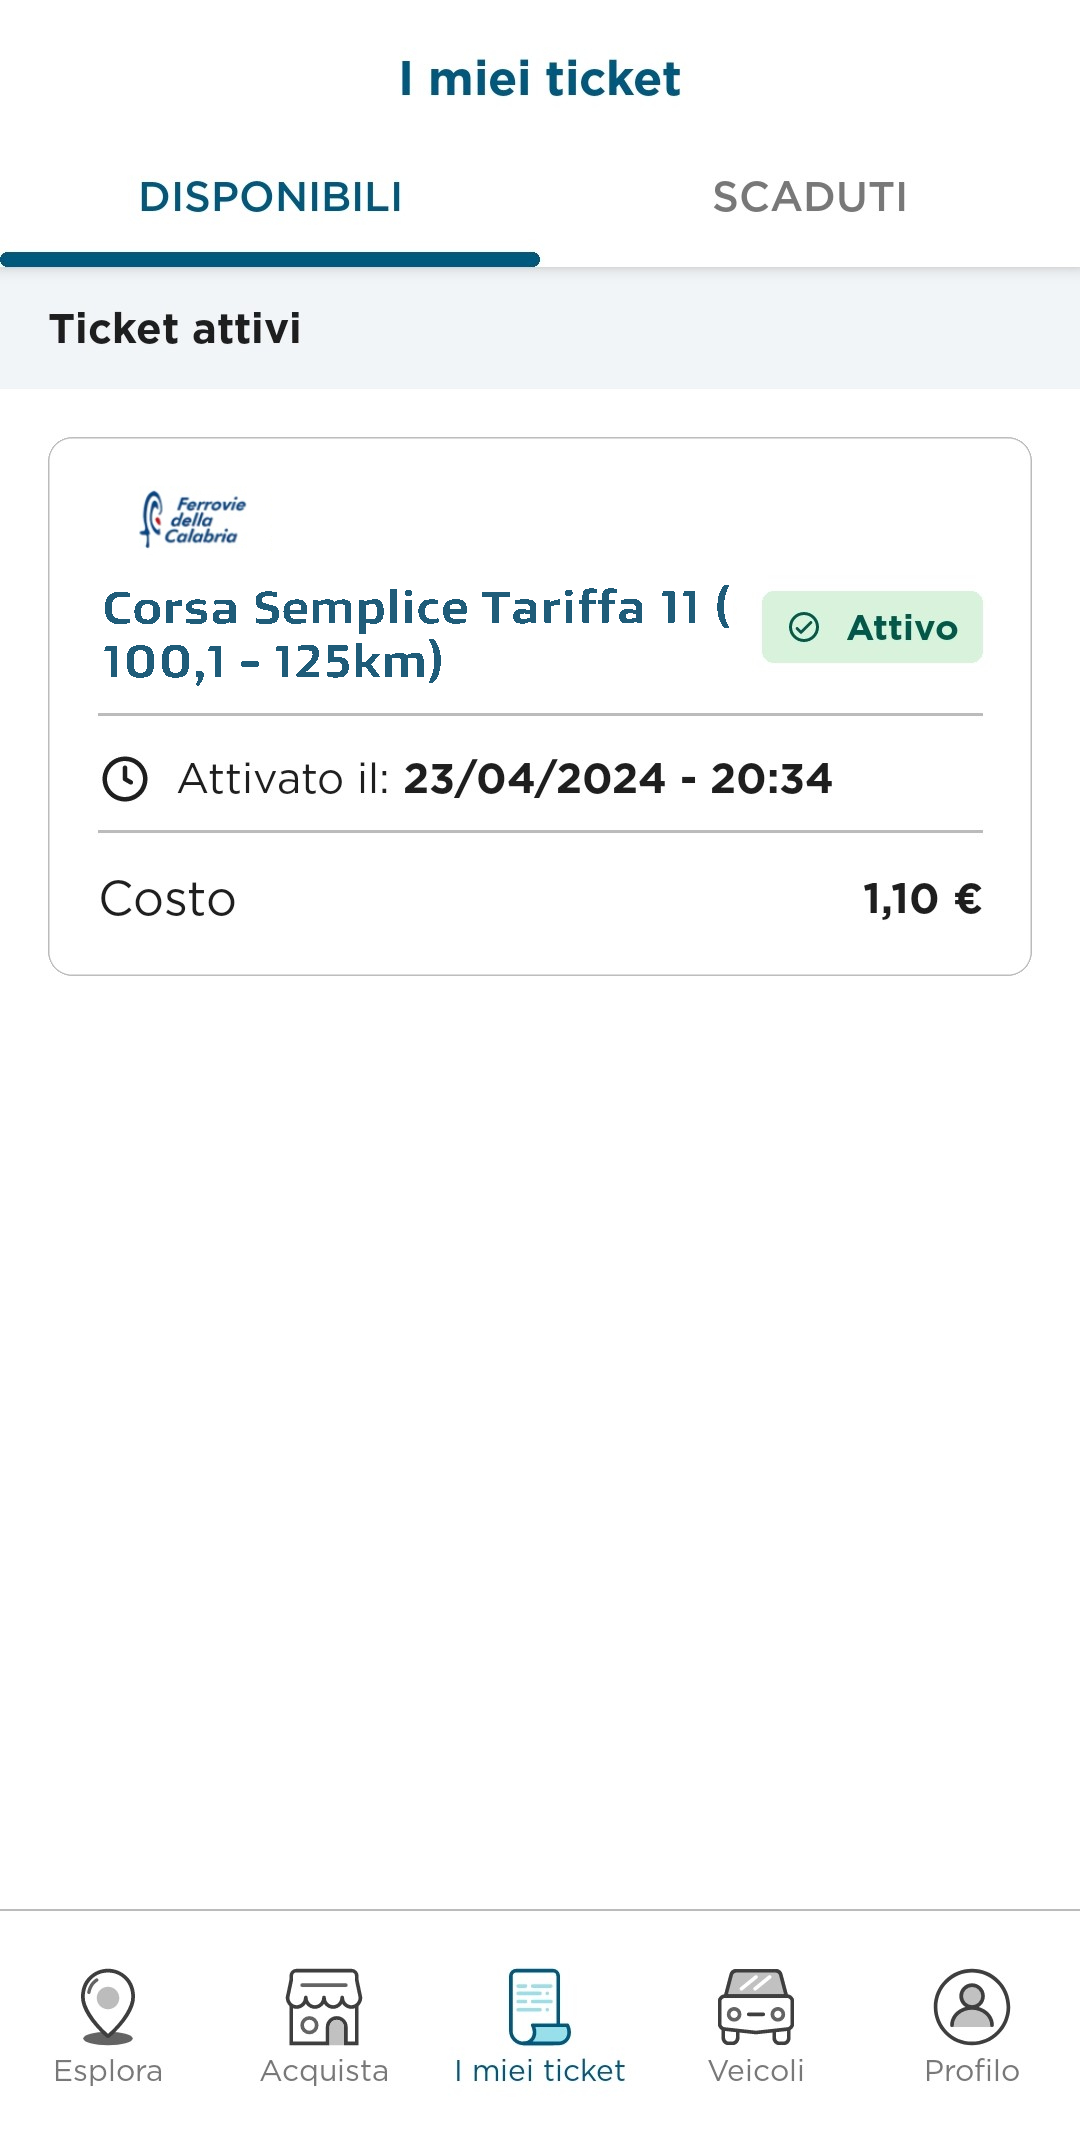
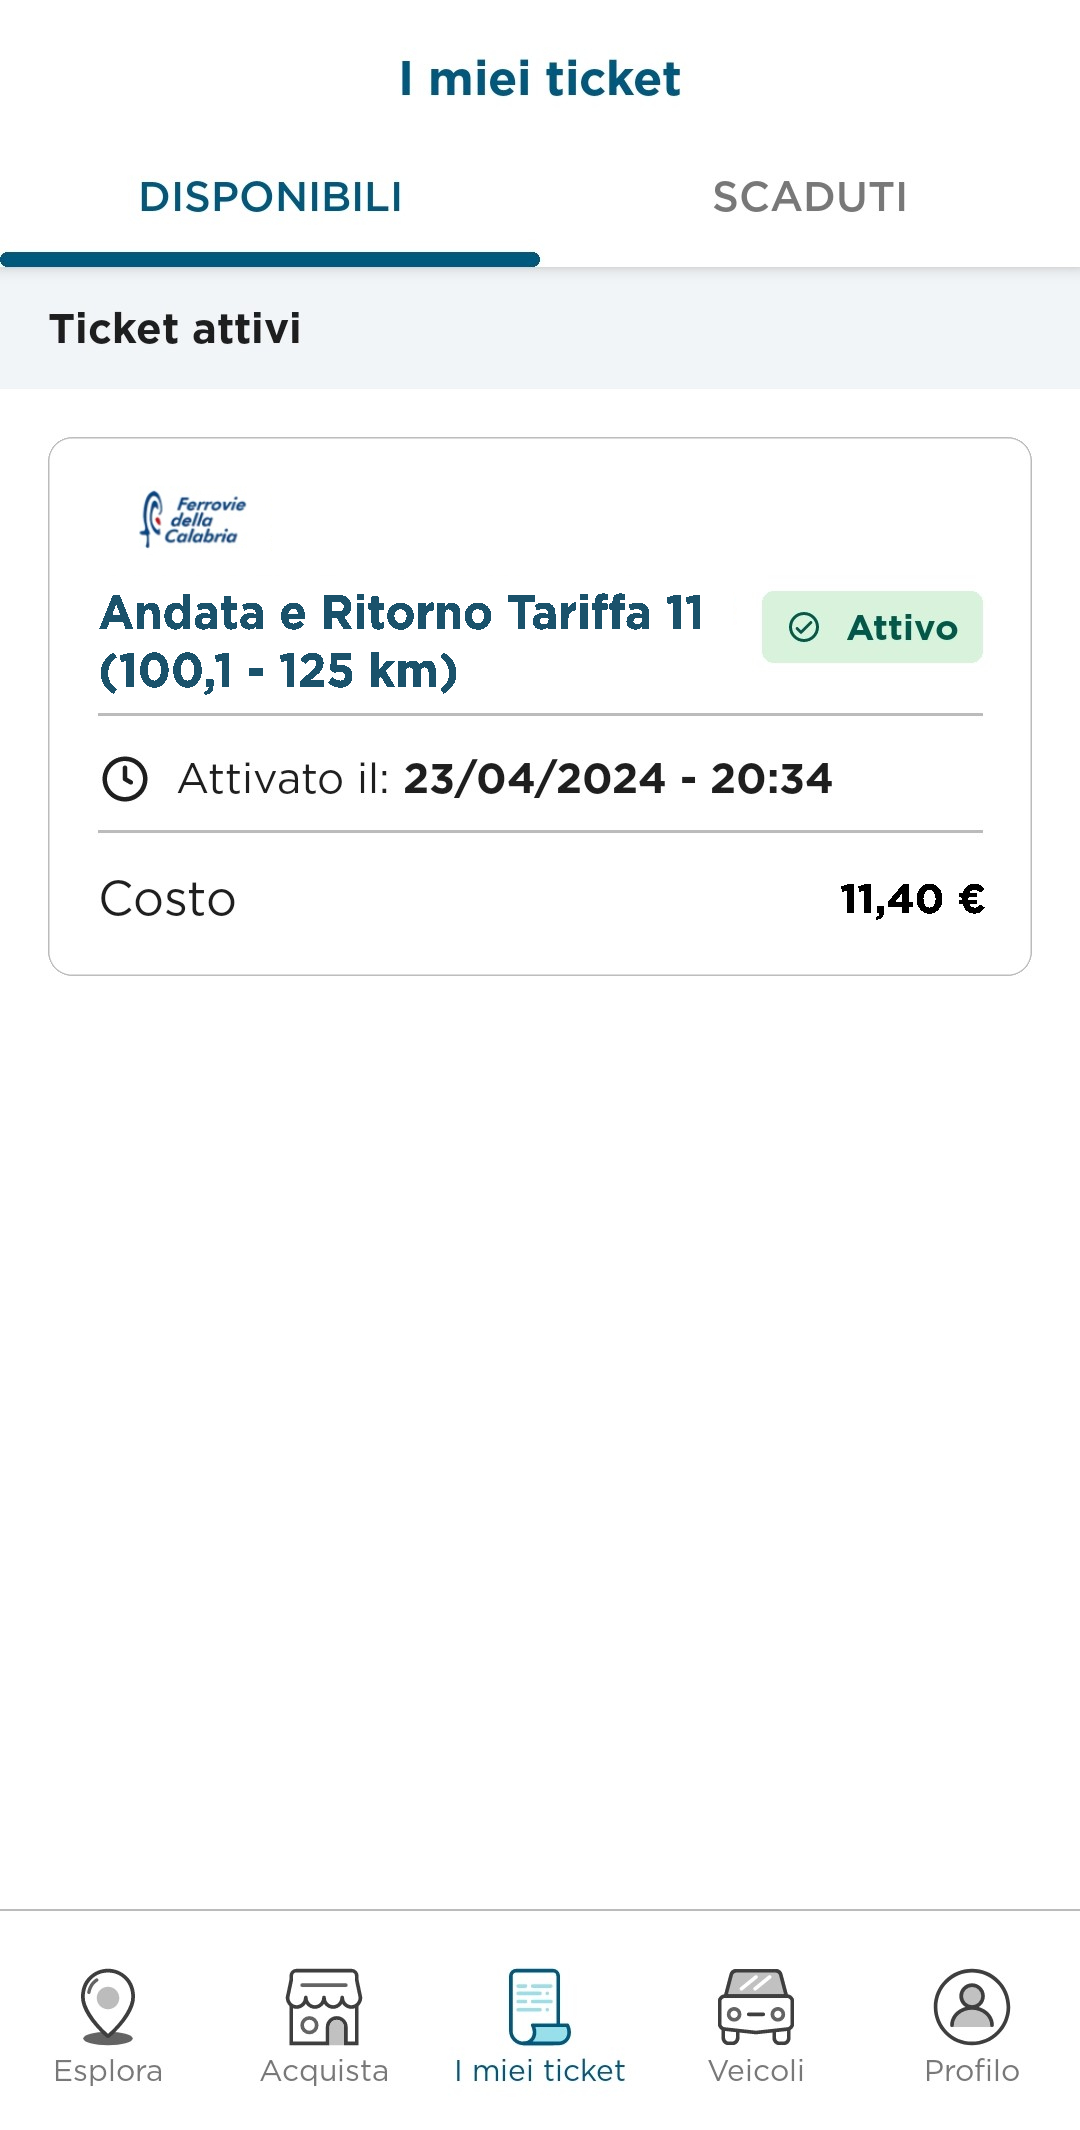
Changes

Changed region(s): [[0.0917, 0.2789, 0.6722, 0.3408], [0.7639, 0.4028, 0.9167, 0.4338]]

diff --git a/index.html b/index.html
@@ -75,10 +75,10 @@
 						<!-- Ticket description -->
 						<div class="ticket-text">
 							<div class="ticket-title">
-								Corsa Semplice Tariffa 11 (100,1 - 125 km)
+								Andata e Ritorno Tariffa 11 (100,1 - 125 km)
 							</div>
 							<div class="ticket-description">
-								Il titolo da diritto ad effettuare un viaggio di corsa semplice
+								Il titolo da diritto ad effettuare due viaggi di corsa semplice
 							</div>
 						</div>
 						<!-- QR Code section container -->
@@ -160,7 +160,7 @@
 									Costo:
 								</div>
 								<div>
-									1,10 €
+									11,40 €
 								</div>
 							</div>
 							<div class="details-info">
@@ -179,7 +179,7 @@
 									Codice ticket:
 								</div>
 								<div>
-									3/<span id="ticket-code">26982</span>
+									14/<span id="ticket-code">26982</span>
 								</div>
 							</div>
 						</div>
